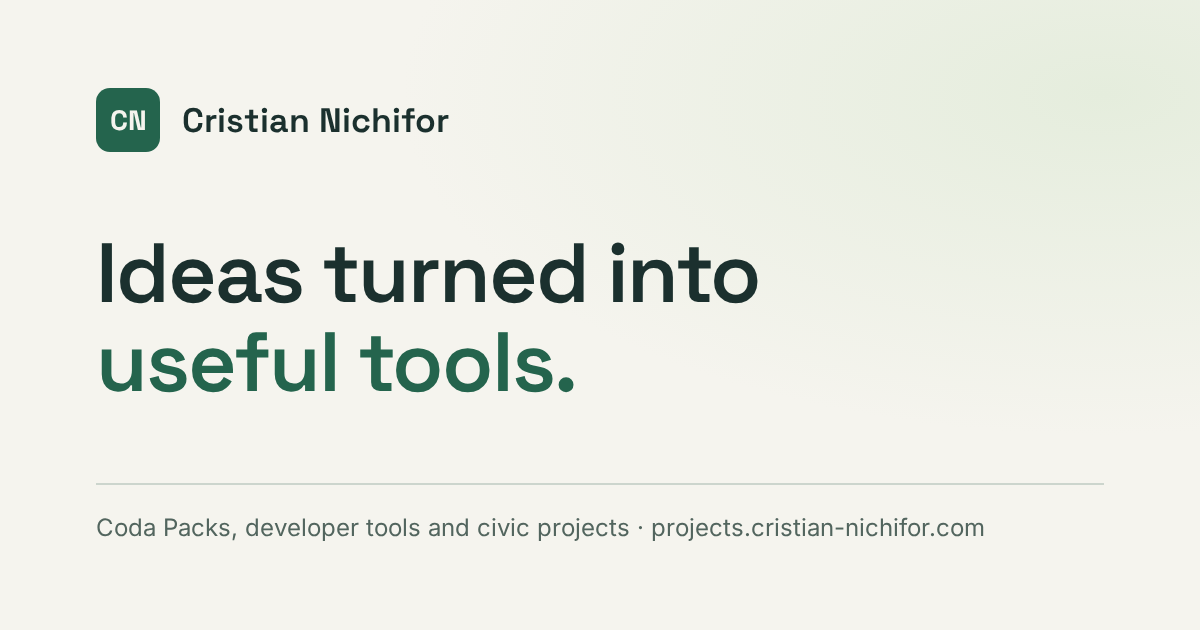
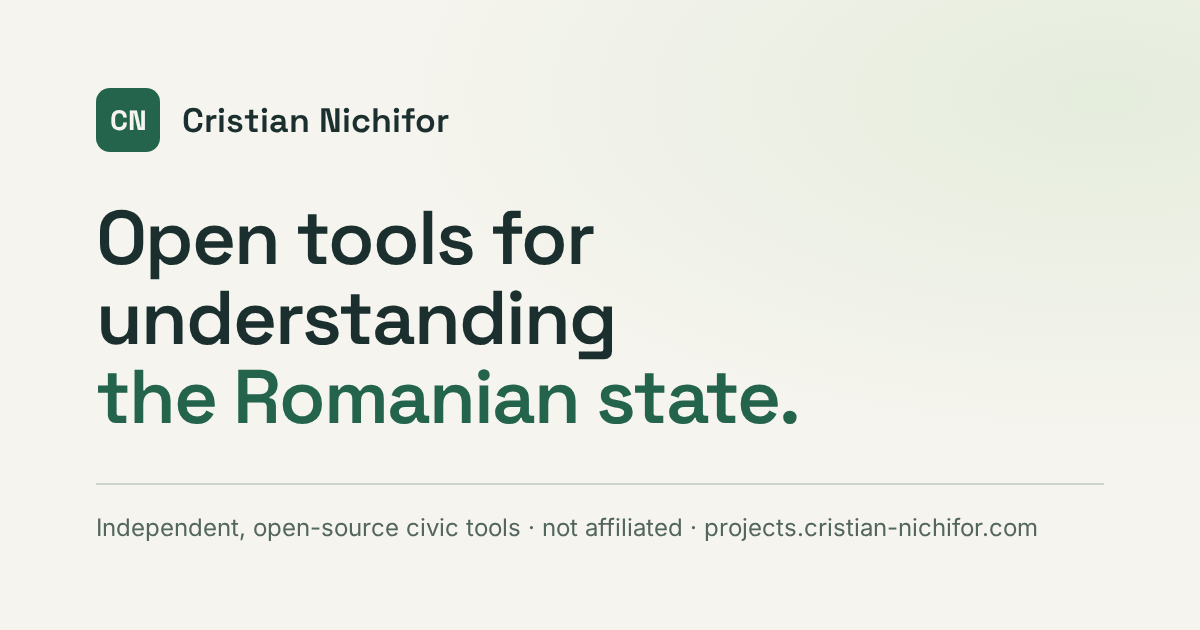
feat: describe the site as independent civic tools in metadata

Changed region(s): [[0.0617, 0.3317, 0.6783, 0.6937], [0.0617, 0.8143, 0.8633, 0.8746]]

diff --git a/src/prerender.tsx b/src/prerender.tsx
@@ -14,16 +14,16 @@ const image = `${origin}/og-image.png`;
 for (const page of pages) {
   const imageAlt =
     page.locale === "ro"
-      ? "Cristian Nichifor: idei care devin instrumente utile."
-      : "Cristian Nichifor: ideas turned into useful tools.";
+      ? "Cristian Nichifor: instrumente deschise pentru a înțelege statul român."
+      : "Cristian Nichifor: open tools for understanding the Romanian state.";
   const privacy = "privacy" in page ? privacyMeta[page.locale] : undefined;
-  const title = `${page.entry?.[page.locale].title ?? privacy?.title ?? page.collection?.[page.locale].title ?? (page.locale === "en" ? "Projects & ideas in practice" : "Proiecte și idei în practică")} — Cristian Nichifor`;
+  const title = `${page.entry?.[page.locale].title ?? privacy?.title ?? page.collection?.[page.locale].title ?? (page.locale === "en" ? "Open civic tools about the Romanian state" : "Instrumente civice deschise despre statul român")} — Cristian Nichifor`;
   const description =
     page.entry?.[page.locale].summary ??
     privacy?.description ??
     (page.locale === "en"
-      ? "Coda Packs, developer tools and civic projects by Cristian Nichifor."
-      : "Pachete Coda, instrumente pentru dezvoltatori și proiecte civice create de Cristian Nichifor.");
+      ? "Independent, open-source civic tools that explain Romanian public data. Not affiliated with the Romanian state or any public institution."
+      : "Instrumente civice independente și open source care explică date publice din România. Nu sunt afiliate statului român sau vreunei instituții publice.");
   const enPath = page.locale === "en" ? page.path : alternatePath(page.path)!;
   const roPath = page.locale === "ro" ? page.path : alternatePath(page.path)!;
   const metadata = `<meta name="description" content="${escape(description)}"><link rel="canonical" href="${origin}${page.path}"><link rel="alternate" hreflang="en" href="${origin}${enPath}"><link rel="alternate" hreflang="ro" href="${origin}${roPath}"><link rel="alternate" hreflang="x-default" href="${origin}${enPath}"><meta property="og:title" content="${escape(title)}"><meta property="og:description" content="${escape(description)}"><meta property="og:url" content="${origin}${page.path}"><meta property="og:type" content="website"><meta property="og:site_name" content="Cristian Nichifor"><meta property="og:locale" content="${page.locale === "ro" ? "ro_RO" : "en_US"}"><meta property="og:image" content="${image}"><meta property="og:image:width" content="1200"><meta property="og:image:height" content="630"><meta property="og:image:alt" content="${escape(imageAlt)}"><meta name="twitter:card" content="summary_large_image"><meta name="twitter:title" content="${escape(title)}"><meta name="twitter:description" content="${escape(description)}"><meta name="twitter:image" content="${image}">`;

diff --git a/scripts/og-image.html b/scripts/og-image.html
@@ -12,11 +12,11 @@
     background: radial-gradient(ellipse at 92% 15%, #e5eddd, transparent 45%), #f5f4ee; }
   .brand { display: flex; align-items: center; gap: 22px; font-family: Space, sans-serif; font-weight: 650; font-size: 34px; }
   .mark { width: 64px; height: 64px; border-radius: 14px; background: #24644d; color: #f5f4ee; display: grid; place-items: center; font-size: 28px; font-weight: 700; }
-  h1 { margin: 0; font-family: Space, sans-serif; font-weight: 600; font-size: 84px; line-height: 1.05; letter-spacing: -2px; }
+  h1 { margin: 0; font-family: Space, sans-serif; font-weight: 600; font-size: 76px; line-height: 1.05; letter-spacing: -2px; }
   h1 em { font-style: normal; color: #24644d; }
   p { margin: 0; font-size: 24px; color: #52655e; border-top: 2px solid #ccd5cd; padding-top: 28px; }
 </style>
 <div class="brand"><span class="mark">CN</span>Cristian Nichifor</div>
-<h1>Ideas turned into<br /><em>useful tools.</em></h1>
-<p>Coda Packs, developer tools and civic projects · projects.cristian-nichifor.com</p>
+<h1>Open tools for understanding<br /><em>the Romanian state.</em></h1>
+<p>Independent, open-source civic tools · not affiliated · projects.cristian-nichifor.com</p>
 </html>
